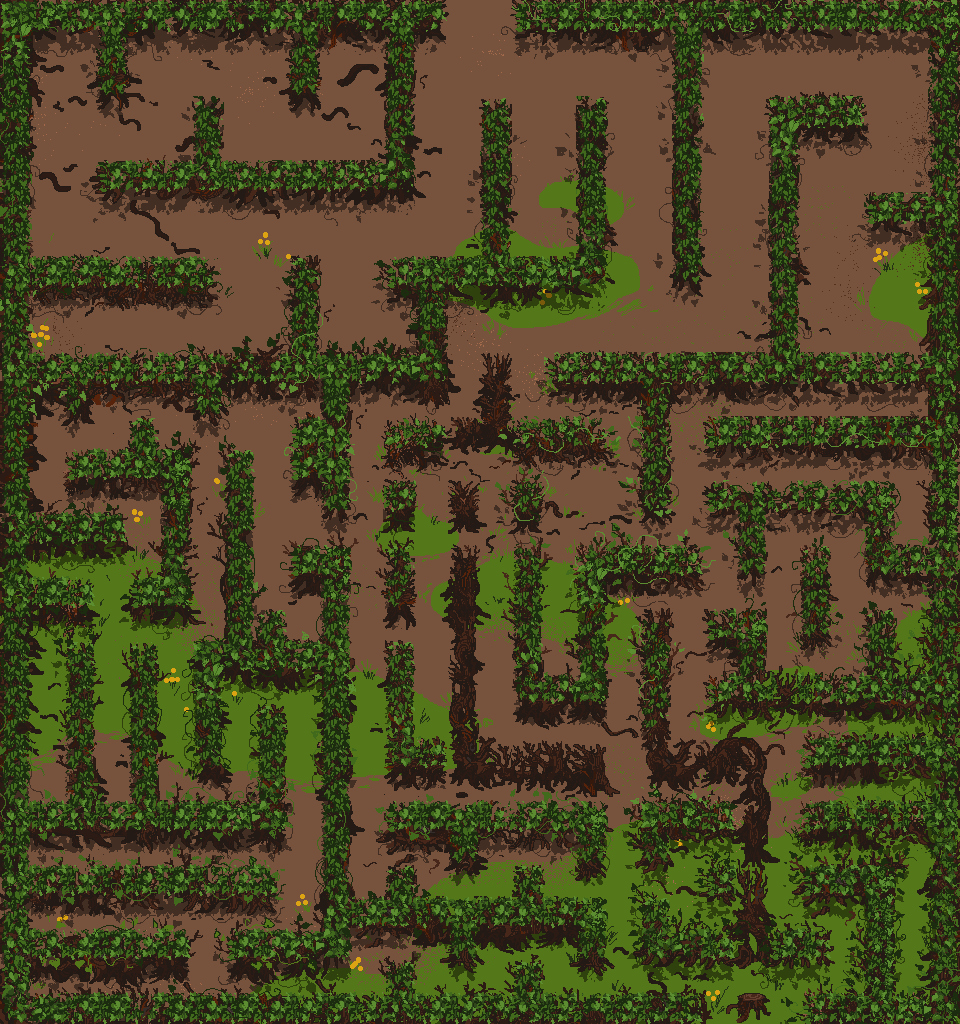
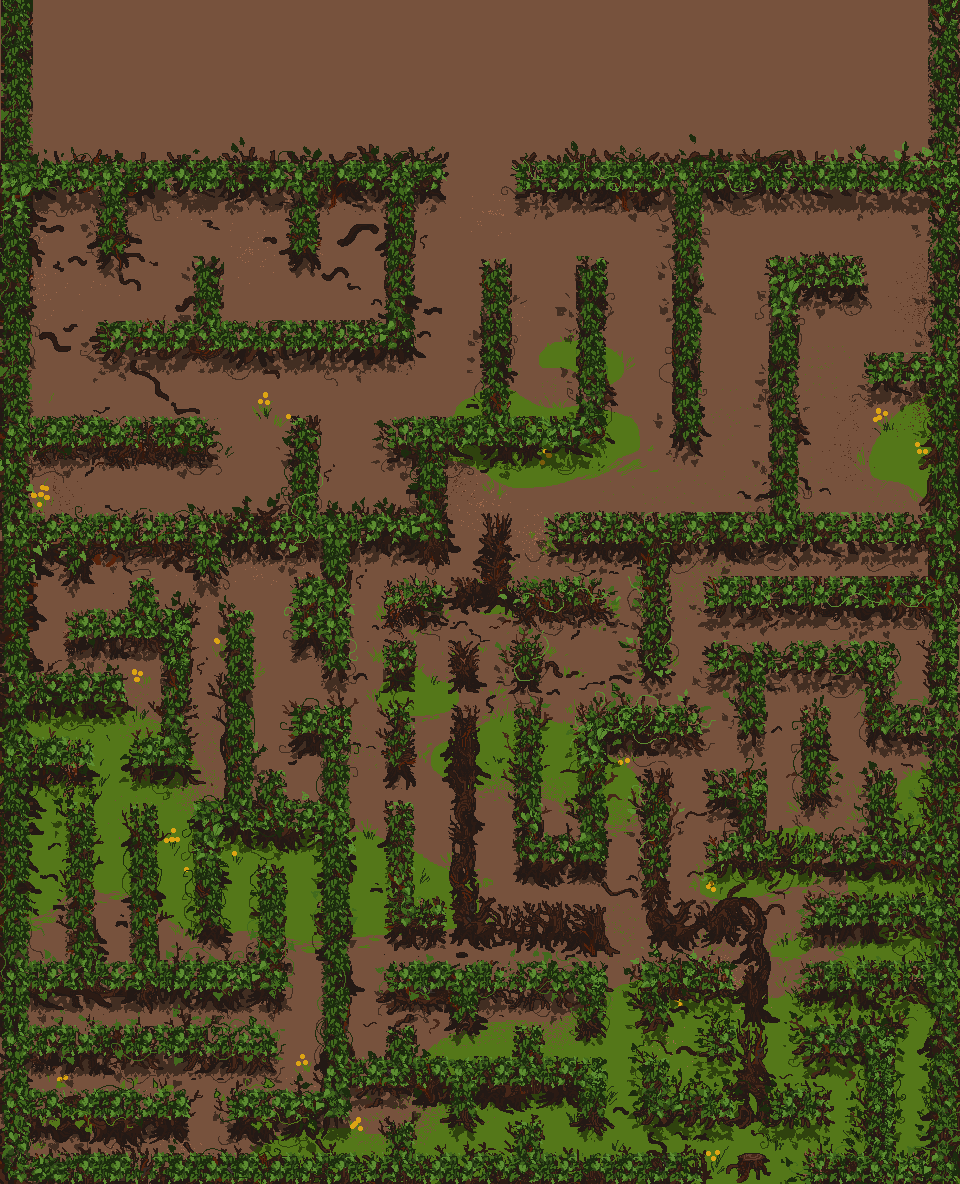
Added obstacles to level 3, changed level dimensions, added flames and  ash

diff --git a/States/GamePlayLevel3.js b/States/GamePlayLevel3.js
@@ -1,9 +1,8 @@
 
-
 var GamePlayLevel3 = function(game){};
 GamePlayLevel3.prototype.preload = function() {
  
-    //Load Character and GlowFly spritesheets
+    //Load Character
     game.load.spritesheet('RED', 'Assets/Red.png', 32, 47);
     game.load.spritesheet('BLUE', 'Assets/Blue.png',32, 64 );
     game.load.spritesheet('together', 'Assets/joined.png', 64, 64)
@@ -13,11 +12,21 @@ GamePlayLevel3.prototype.preload = function() {
     game.load.image('backgroundOverlay', 'Assets/level3Overlay.png');
     
     game.load.spritesheet('fireTop', 'Assets/fire.png', 896, 160);
-    game.load.spritesheet('fireMid', 'Assets/fireBarrier.png', 1024, 960);
+    game.load.spritesheet('fireMid', 'Assets/fireBarrier.png', 385, 768);
     
     game.load.image('pauseBackground', 'Assets/pauseBackground.png');
     game.load.spritesheet('quitButton', 'Assets/quit.png', 128, 92);
     game.load.spritesheet('restartButton', 'Assets/restart.png', 128, 92);
+    
+    game.load.image('obstacle1', 'Assets/obstacle1.png');
+    game.load.image('obstacle2', 'Assets/obstacle2.png');
+    game.load.image('obstacle3', 'Assets/obstacle3.png');
+    game.load.image('obstacle4', 'Assets/obstacle4.png');
+    
+    game.load.image('ash1', 'Assets/ash1.png');
+    game.load.image('ash2', 'Assets/ash2.png');
+    game.load.image('ember1', 'Assets/ember1.png');
+    game.load.image('ember2', 'Assets/ember2.png');
     
     //Load Audio
     game.load.audio('night3', ['Sound/3rd-Night.wav']);
@@ -41,14 +50,15 @@ GamePlayLevel3.prototype.create = function() {
     
    // Set stage background color(required for shading)
     this.game.stage.backgroundColor = 0x78453A;
-    game.world.setBounds(0, 0, 960, 1024);
+    game.world.setBounds(0, 0, 960, 1184);
     back = game.add.sprite(0,0, 'background');
     
     //Add and loop background music
     music = game.add.audio('night3');
-    music.loopFull();
+    
     
     music2 = game.add.audio('night4');
+    music2.loopFull();
     
     seperateSound = game.add.audio('seperate');
 
@@ -93,7 +103,7 @@ GamePlayLevel3.prototype.create = function() {
     this.mushrooms = this.game.add.group();
     p1 = new mushroom(game, 'RED', 1, -60, 42, level3, 11, 14);
     p2 = new mushroom(game, 'BLUE', 2, -70, 32, level3, 11, 16);
-    p3 = new mushroom(game, 'together', 3, 480, 64, level3, 2, 14);
+    p3 = new mushroom(game, 'together', 3, 480, 224, level3, 2, 14);
     this.mushrooms.add(p1);
     this.mushrooms.add(p2);
     this.mushrooms.add(p3)
@@ -101,12 +111,21 @@ GamePlayLevel3.prototype.create = function() {
     p3.alive = true;
     p3.visible = true;
     
+    obstacle1 = game.add.sprite(352, 608, 'obstacle1');
+    obstacle2 = game.add.sprite(416, 672, 'obstacle2');
+    obstacle3 = game.add.sprite(608, 864, 'obstacle3');
+    obstacle4 = game.add.sprite(704, 1120, 'obstacle4');
+    
+    midFire = game.add.sprite(416, 416, 'fireMid');
+    midFire.animations.add('moveMidFlames', [0, 1, 2, 3], 12, true);
+    midFire.animations.play('moveMidFlames');
+    
     //topFire = game.add.sprite(this.game.camera.x,this.game.camera.y, 'fireTop');
     //topFire.animations.add('moveTopFlames');
     //topFire.animations.play('moveTopFlames', 7, true);
-    //topFire.fixedToCamera = true;
     
-    //overlay = game.add.sprite(0,0, 'backgroundOverlay');
+    
+    overlay = game.add.sprite(0,0, 'backgroundOverlay');
     
     this.LIGHT_RADIUS = 0;
     
@@ -130,10 +149,26 @@ GamePlayLevel3.prototype.create = function() {
     p1.moving = true;
     p2.moving = true;
     
-    var moveCamera = game.add.tween(this.game.camera).to({ y: this.game.world.height - this.game.camera.height}, 50000, Phaser.Easing.Linear.None, true);
+    var moveCamera = game.add.tween(this.game.camera).to({ y: this.game.world.height - this.game.camera.height}, 20000, Phaser.Easing.Linear.None, true);
     moveCamera.onComplete.add(allowMovement, this); function allowMovement() {   }  
+    
+    this.shadingAlpha = .5;
+    this.shadingAlphaText = this.shadingAlpha.toString();
+    
+    this.frameCount = 0;
+    
+    emitter = game.add.emitter(game.world.centerX, 0, 500);
+    emitter.makeParticles(['ash1', 'ash2', 'ember1', 'ember2']);
+    emitter.start(false, 2000, 1, 0);
+    emitter.setRotation(0, 0);
+    emitter.setXSpeed(-200,0 );
+    emitter.setYSpeed(100, 200);
+    let area = new Phaser.Rectangle(game.world.centerX, 0, game.world.width, 1);
+    emitter.area = area;
 };
 GamePlayLevel3.prototype.update = function() {
+    
+    emitter.y = game.camera.y;
     
     if(game.input.keyboard.justPressed(Phaser.Keyboard.P)){
         if(this.isPaused){
@@ -146,36 +181,45 @@ GamePlayLevel3.prototype.update = function() {
     if(p3.mapArrayLocation[0] == 10 && p3.mapArrayLocation[1] == 14 && !p3.moving){
         p3.moving = true;
         
-        music.pause();
+        //music.pause();
         seperateSound.play();
-        music2.loopFull();
+        //music2.loopFull();
         
         p1.lightRadius = p3.lightRadius/2;
         p2.lightRadius = p3.lightRadius/2;
         
         p3.destroy();
         p1.x = 464;
-        p1.y = 320;
+        p1.y = 480;
         p1.direction = 0;
         p1.legalMove(p1.x, p1.y + 32, 150);
         
         p2.x = 528;
-        p2.y = 320;
+        p2.y = 480;
         p2.direction = 0;
         p2.legalMove(p2.x, p2.y + 32, 150);
-        
-        
-        
-        
     }
     
     if(p3.lightRadius <= 0){
         game.state.start('GameOver');
     }
     
+    if(this.frameCount % 10 == 0){
+        if(this.shadingAlpha == .9){
+            this.shadingAlpha += .1
+        }else{
+            this.shadingAlpha -= .1;
+        }
+        this.shadingAlphaText = this.shadingAlpha.toString();
+    }
+    
     if(this.isPaused){
         this.pauseScreenUpdate();
     }else{this.updateShadowTexture();}
+    
+    
+    
+    this.frameCount += 1;
     
 };
 GamePlayLevel3.prototype.render = function(){
@@ -192,7 +236,7 @@ GamePlayLevel3.prototype.render = function(){
 GamePlayLevel3.prototype.updateShadowTexture = function(){
     //'rgb(100, 0, 0)'; save for fire level
     // or 300, 100, 200
-    this.shadowTexture.context.fillStyle = 'rgb(20, 20, 50)';
+    this.shadowTexture.context.fillStyle = 'rgb(300, 100, 200)';
     this.shadowTexture.context.fillRect(0, 0, this.world.width, this.world.height);
     //console.log(this.shadowTexture);
 
